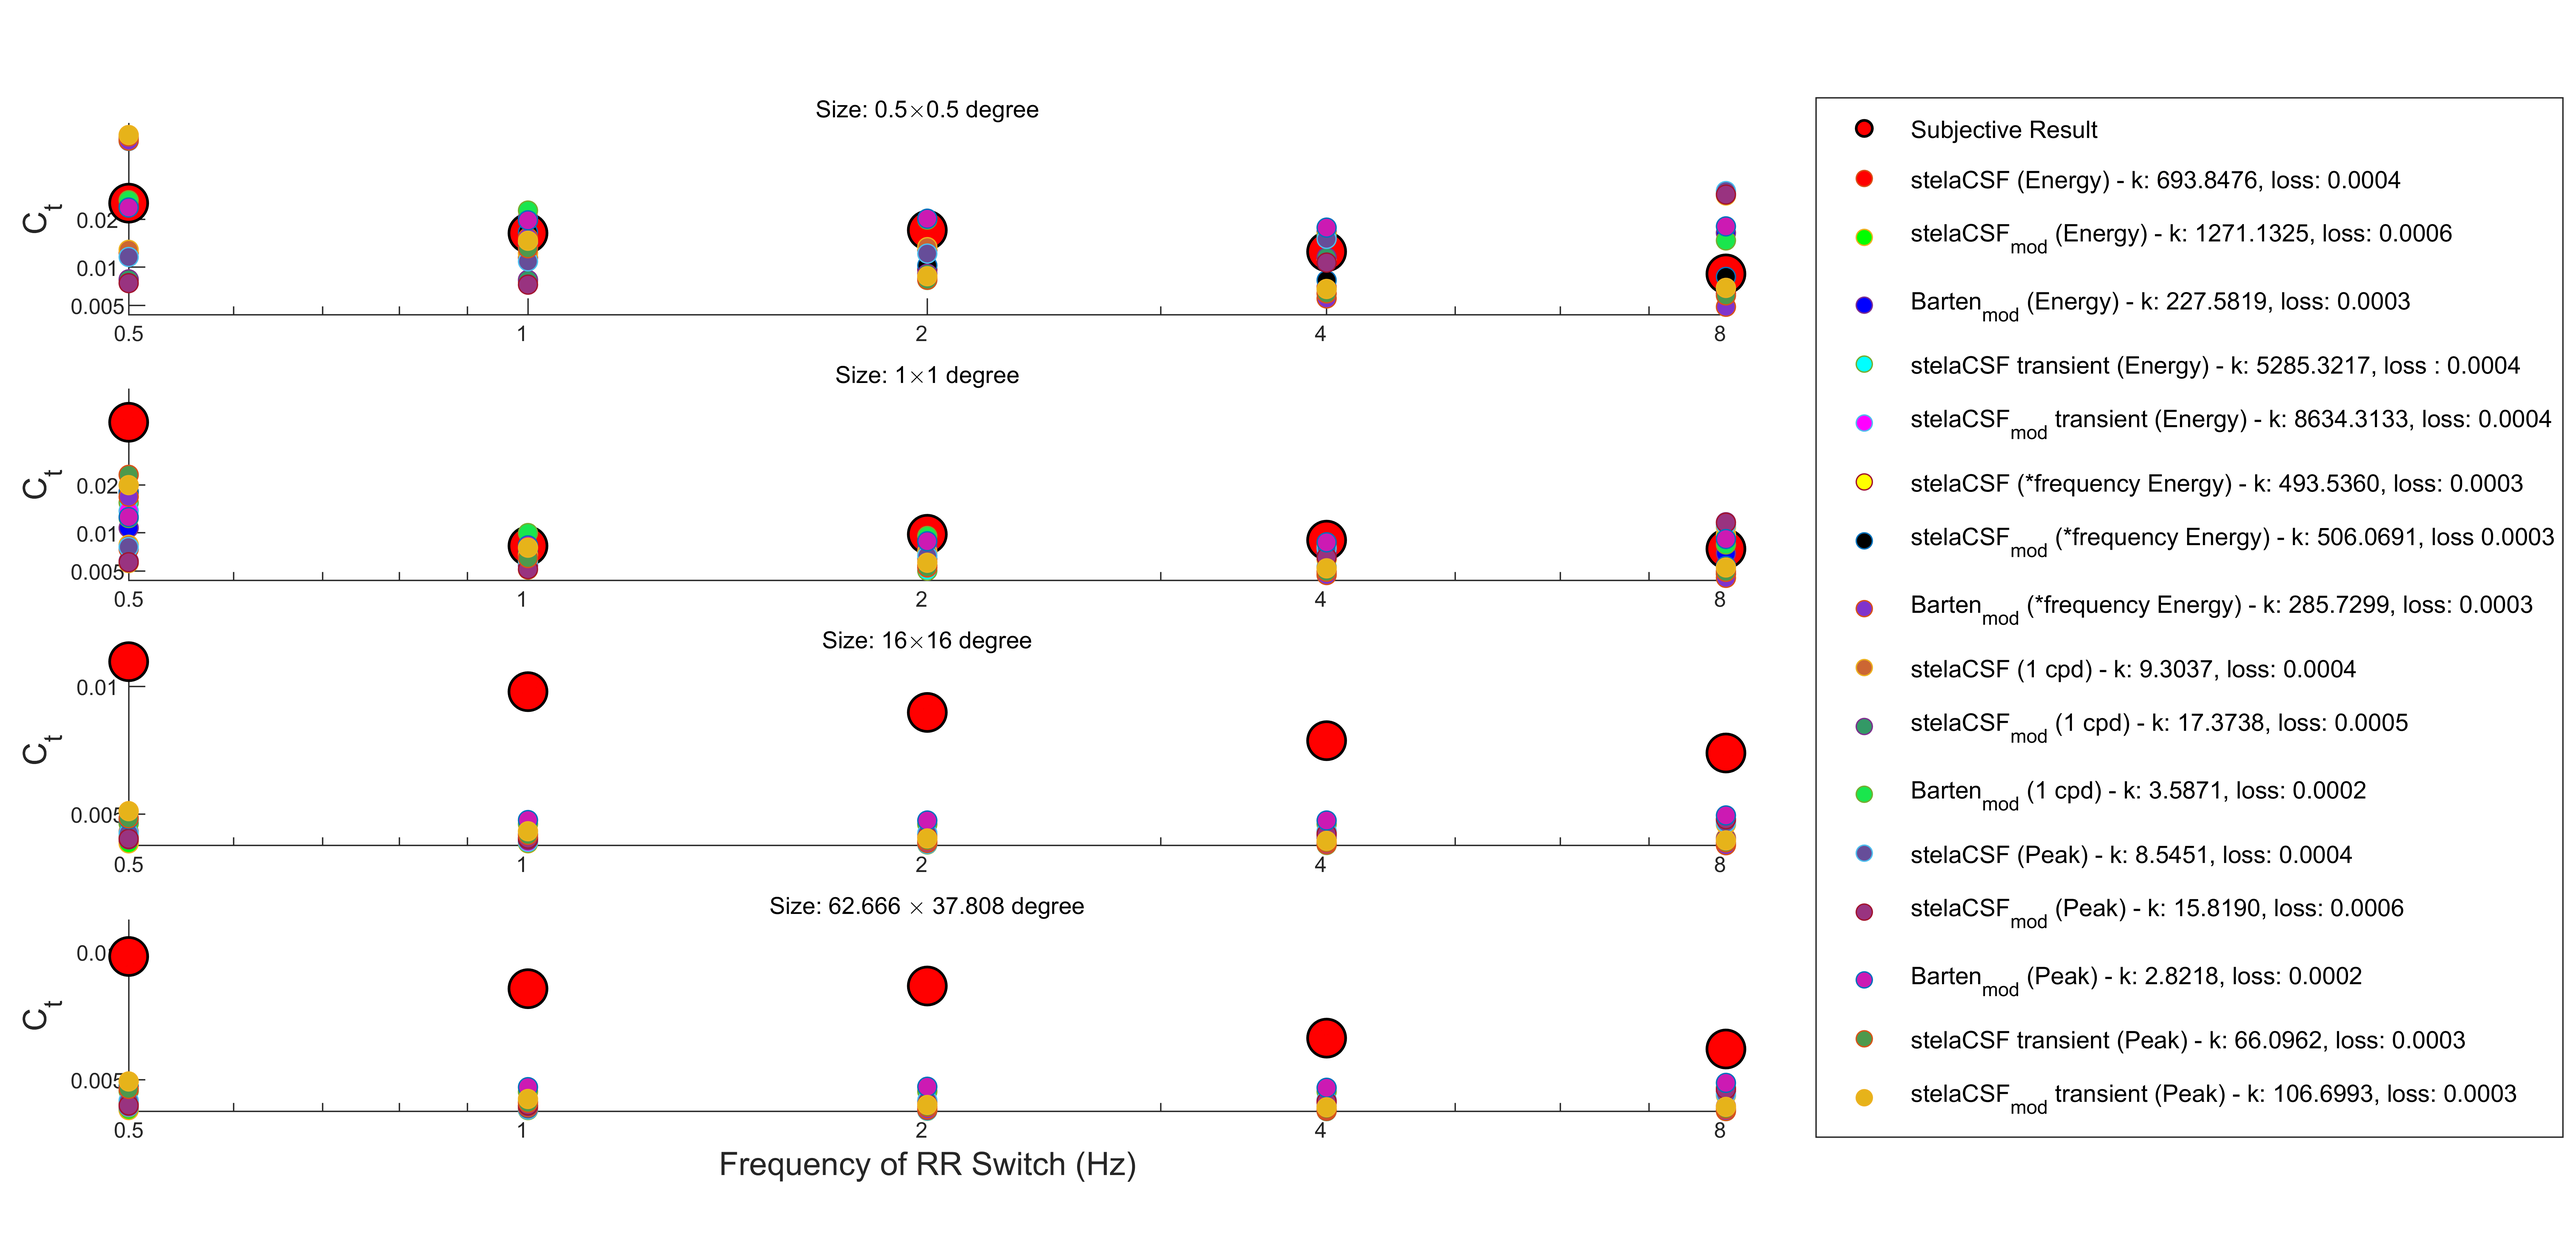
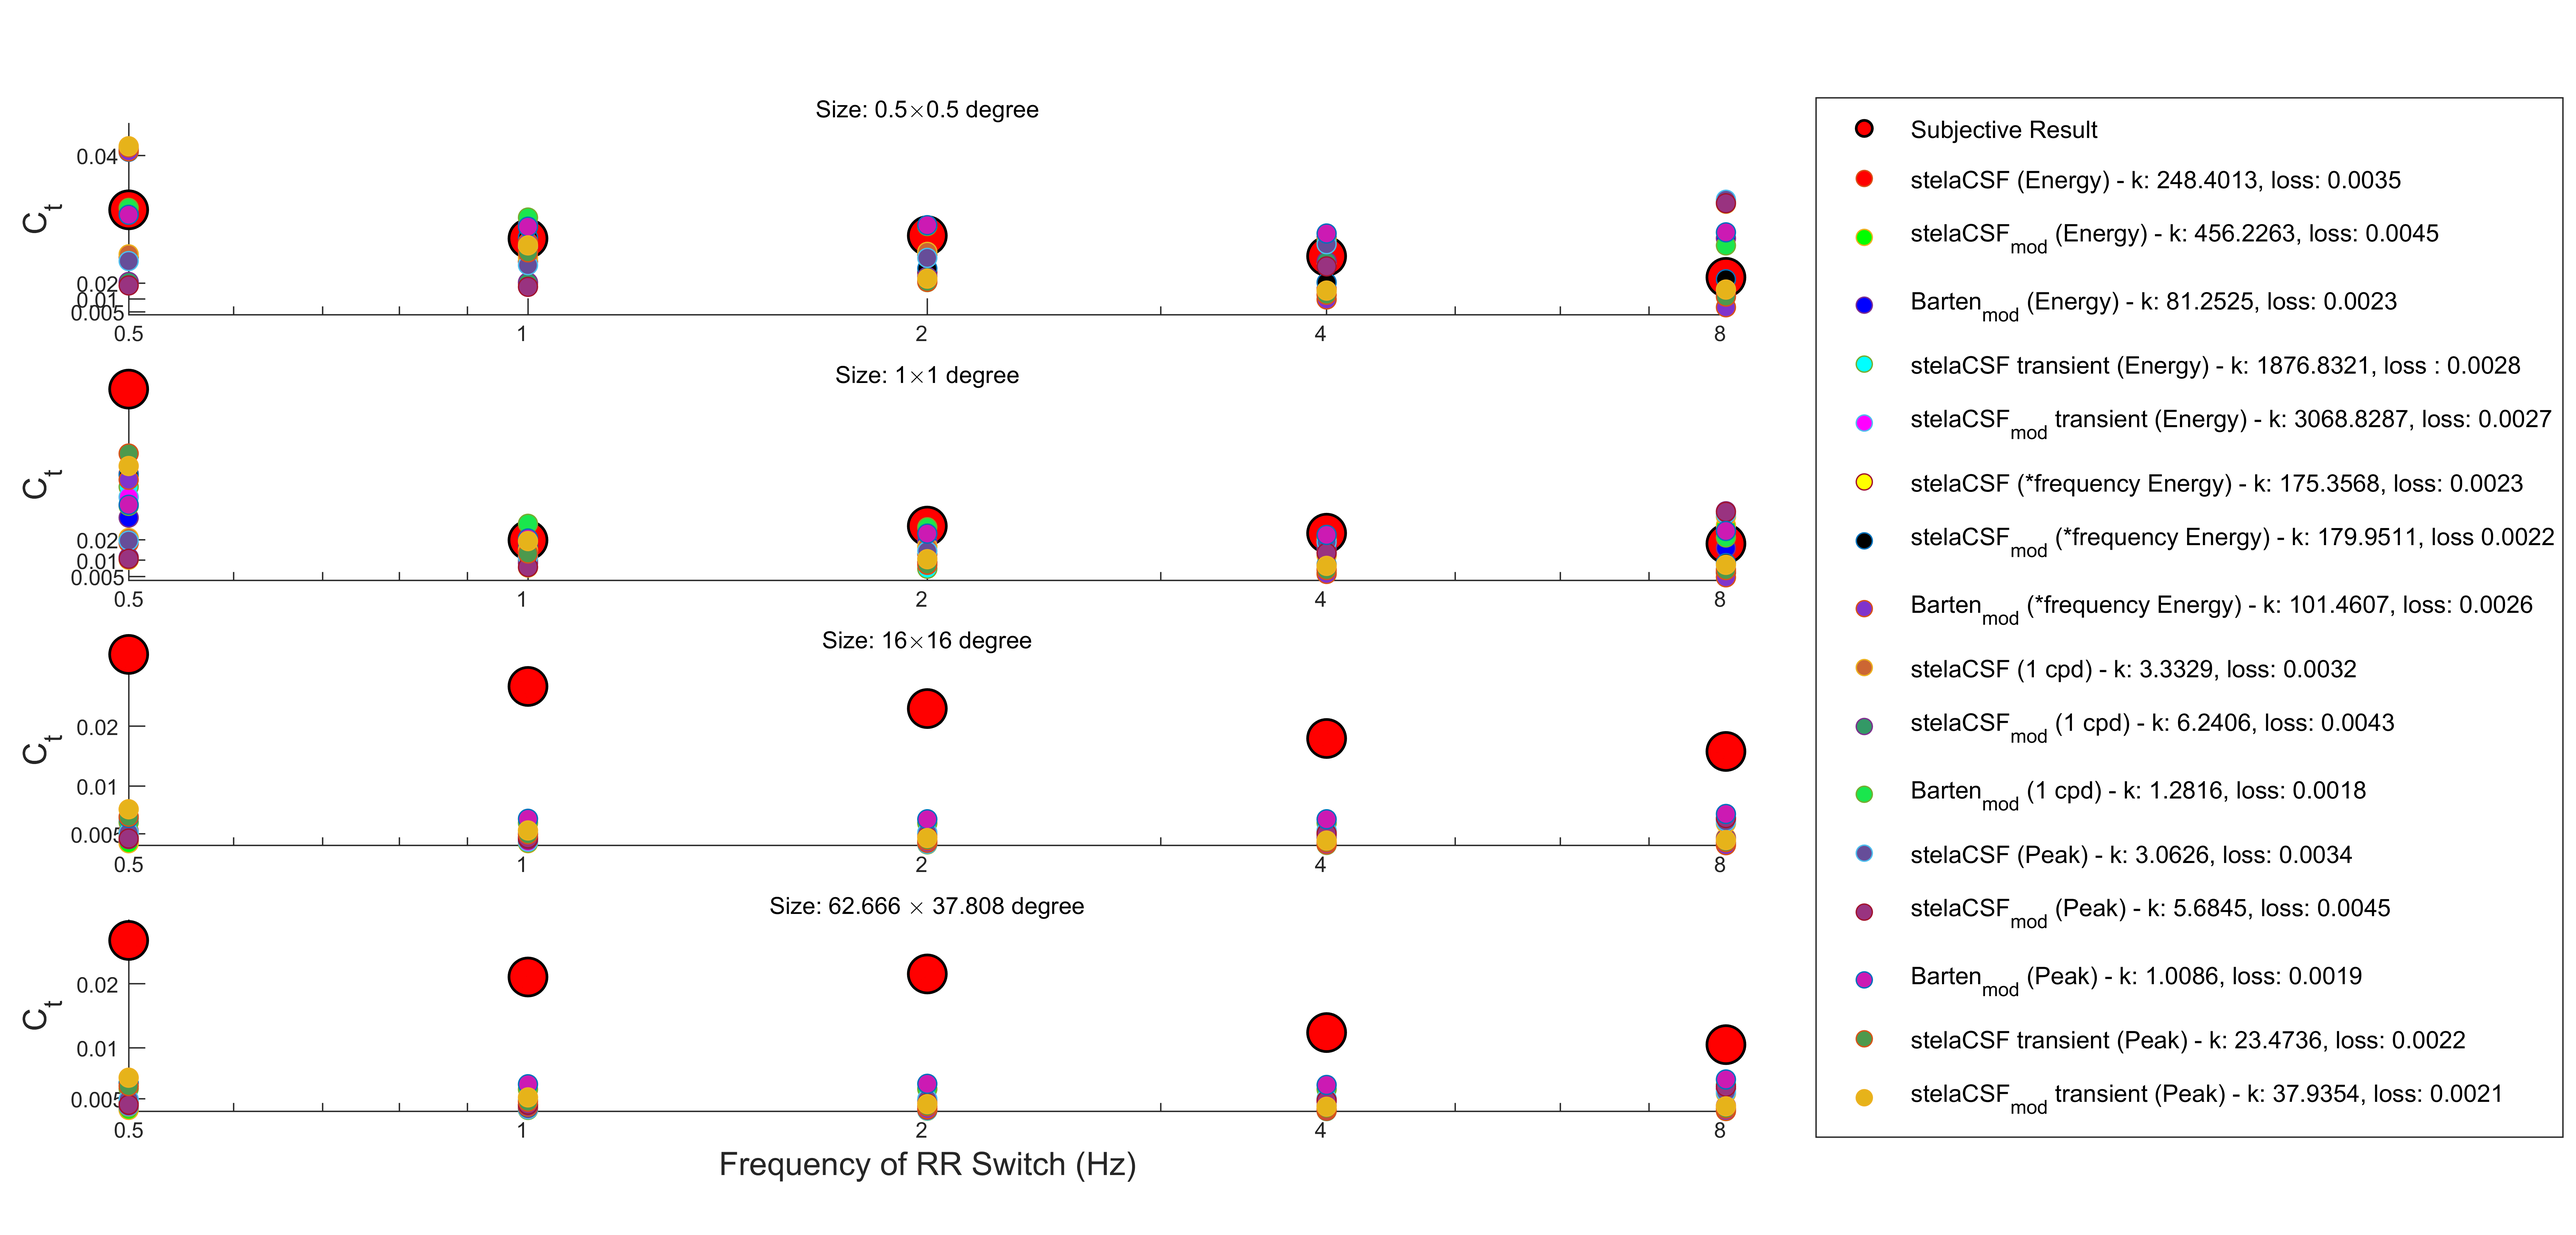
2023-12-23

diff --git a/dL_L/LG_G1_Calibration.py b/dL_L/LG_G1_Calibration.py
@@ -160,7 +160,7 @@ if __name__ == "__main__":
     Refresh_rate = [30, 120]
     repeat_times = 4
     # 别忘了denser at darker
-    save_dir_path = f"../dL_L/LG_G1_KONICA_8_Large_Size"
+    save_dir_path = f"../dL_L/LG_G1_KONICA_9"
     os.makedirs(save_dir_path, exist_ok=True)
     config_json = {'Size': Size, 'Pixel_value_range': Pixel_value_range,
                    'sample_numbers': sample_numbers, 'scale': scale,

diff --git a/VRR_subjective_Quest/Quest_get_C_t.py b/VRR_subjective_Quest/Quest_get_C_t.py
@@ -5,7 +5,7 @@ import json
 import os
 import pandas as pd
 
-with open(r'B:\Py_codes\VRR_Real\dL_L/TFM_Fit_result.json', 'r') as fp:
+with open(r'B:\Py_codes\VRR_Real\dL_L/KONICA_Fit_result_sigmoid.json', 'r') as fp:
     fit_result = json.load(fp)
 popt = fit_result['popt']
 def sigmoid(x, k, x0):
